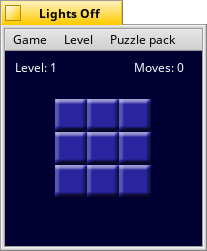
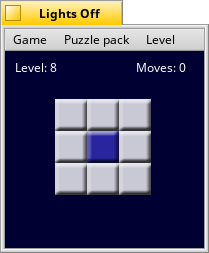
Save the dimensions and level of most recent random game
Also,
* increase the maximum dimensions to 8x8.
* increase the maximum levels of random games.
* update existing PNG files and add new ones.

Fixes #36
Fixes #39

diff --git a/src/GridView.cpp b/src/GridView.cpp
@@ -29,10 +29,20 @@ PuzzlePackSet gPuzzles;
 
 static const float gridMargin = 50;
 static const int8 minDimension = 3;
-static const int8 maxDimension = 6;
+static const int8 maxDimension = 8;
 static const int8 defaultDimension = 5;
 static const int8 maxNumButtons = maxDimension * maxDimension;
-static const int8 maxLevels[maxDimension - minDimension + 1] = { 4, 7, 5, 16 };
+
+/*
+ * Maximum levels (number of moves required) for dimensions 3x3 through 8x8
+ *
+ * Note: although the nullity of 3x3 and 6x6 through 8x8 dimensions is 0, which
+ * means the maximum level is n^2 where n = 3, 6, 7, or 8, I set them to 1 less
+ * because otherwise, the solutions would be simply pressing all buttons. --Owen
+ */
+static const int8 maxLevels[] = { 8, 7, 15, 35, 48, 63 };
+
+static int8 lastLevels[maxDimension - minDimension + 1];
 
 static void
 SuccessAlert()
@@ -59,10 +69,6 @@ GridView::GridView()
 	entry.SetTo("altwin.wav");
 	entry.GetRef(&ref);
 	fNoWinSound = new BFileGameSound(&ref,false);
-	
-	StartupPreferences();
-	fGrid = new Grid(fDimension);
-	srandom(system_time());
 
 	SetViewColor(0,0,50);
 	
@@ -109,6 +115,10 @@ GridView::GridView()
 	fLevelMenu = new BMenu("Level");
 	fLevelMenu->SetRadioMode(true);
 	bar->AddItem(fLevelMenu);
+
+	StartupPreferences();
+	fGrid = new Grid(fDimension);
+	srandom(system_time());
 
 	fButtons = new TwoStateDrawButton*[maxNumButtons];
 
@@ -249,8 +259,7 @@ void GridView::MessageReceived(BMessage *msg)
 			int8 dimension;
 			if (msg->FindInt8("dimension", &dimension) != B_OK) {
 				int8 index = fRandomMenu->FindMarkedIndex();
-				dimension = index == -1 ? defaultDimension
-					: minDimension + index;
+				dimension = index < 0 ? defaultDimension : minDimension + index;
 			}
 			UpdateDimension(dimension);
 			SetRandom(dimension);
@@ -296,8 +305,6 @@ void GridView::RandomMenu()
 		msg->AddInt8("dimension", dimension);
 		fRandomMenu->AddItem(new BMenuItem(label, msg));
 	}
-
-	fRandomMenu->ItemAt(fDimension - minDimension)->SetMarked(true);
 }
 
 void GridView::FlipButton(int8 offset)
@@ -334,7 +341,7 @@ void GridView::SetRandom(int8 dimension)
 
 	fLevelMenu->SetTargetForItems(this);
 	fPackMenu->ItemAt(0)->SetMarked(true);
-	SetLevel(2);
+	SetLevel(lastLevels[dimension - minDimension]);
 }
 
 void GridView::UpdateDimension(int8 dimension)
@@ -426,8 +433,10 @@ void GridView::SetLevel(int8 level)
 
 	if (fPuzzle)
 		fGrid->SetGridValues(fPuzzle->ValueAt(level));
-	else
+	else {
+		lastLevels[fDimension - minDimension] = level;
 		fGrid->Random(level + 1);
+	}
 
 	UpdateButtons();
 
@@ -494,6 +503,9 @@ void GridView::HandleFinish()
 void GridView::StartupPreferences()
 {
 	if (LoadPreferences(PREFERENCES_PATH) == B_OK) {
+		for (int8 index = 0; index <= maxDimension - minDimension; index++)
+			lastLevels[index] = preferences.GetInt8("levels", index, index + 1);
+
 		for(int8 index = 0; index < gPuzzles.CountPacks(); index++) {
 			PuzzlePack* pack = gPuzzles.PackAt(index);
 			pack->SetHighest(preferences.GetInt8(pack->Name(), 0));
@@ -507,15 +519,25 @@ void GridView::StartupPreferences()
 
 				if (strcmp(lastpack.String(), pack->Name()) == 0) {
 					fPuzzle = pack;
+					fDimension = defaultDimension;
 					break;
 				}
 			}
 
-		fDimension = preferences.GetInt8("dimension", defaultDimension);
+		int8 dimension = preferences.GetInt8("dimension", defaultDimension);
+		fRandomMenu->ItemAt(dimension - minDimension)->SetMarked(true);
+
+		if (fPuzzle == NULL)
+			fDimension = dimension;
+
 		fUseSound = preferences.GetBool("usesound", true);
 	} else {
+		for (int8 index = 0; index <= maxDimension - minDimension; index++)
+			lastLevels[index] = index + 1;
+
 		fPuzzle = gPuzzles.PackAt(0);
 		fDimension = defaultDimension;
+		fRandomMenu->ItemAt(defaultDimension - minDimension)->SetMarked(true);
 		fUseSound = true;
 	}
 
@@ -530,6 +552,9 @@ void GridView::ShutdownPreferences()
 {
 	preferences.MakeEmpty();
 	
+	for (int8 index = 0; index <= maxDimension - minDimension; index++)
+		preferences.AddInt8("levels", lastLevels[index]);
+
 	// Save the progress in each of the puzzle packs
 	for (int8 i = 0; i < gPuzzles.CountPacks(); i++) {
 		PuzzlePack *pack = (PuzzlePack*)gPuzzles.PackAt(i);
@@ -540,10 +565,12 @@ void GridView::ShutdownPreferences()
 		}
 	}
 
+	int8 index = fRandomMenu->FindMarkedIndex();
+	preferences.AddInt8("dimension",
+		index < 0 ? defaultDimension : minDimension + index);
+
 	if (fPuzzle)
 		preferences.AddString("lastpack", fPuzzle->Name());
-	else
-		preferences.AddInt8("dimension", fDimension);
 
 	preferences.AddBool("usesound",fUseSound);
 	SavePreferences(PREFERENCES_PATH);

diff --git a/src/Grid.cpp b/src/Grid.cpp
@@ -28,6 +28,44 @@ void Grid::Random(int8 minMoves)
 	for (int8 index = 0; index < numButtons; index++)
 		fData[index] = fGrid[index] = 0;
 
+	/*
+	 * Some of the eigenvectors
+	 *
+	 * An eigenvector is a puzzle whose solution is simply pressing all lit
+	 * buttons in the puzzle. --Owen
+	 */
+#if 0
+	// 3x3.png
+	if (fDimension == 3 && minMoves == 8) {
+		for (int8 index = 0; index < numButtons; index++)
+			fData[index] = fGrid[index] = 1;
+		fData[4] = 0;
+		return;
+	}
+
+	// 6x6.png
+	if (fDimension == 6 && minMoves == 6) {
+		fData[0] = fData[7] = fData[14] = fData[21] = fData[28] = fData[35] = 1;
+		return;
+	}
+
+	// 7x7.png
+	if (fDimension == 7 && minMoves == 16) {
+		fData[3] = fData[9] = fData[11] = fData[15] = fData[17] = fData[19]
+			= fData[21] = fData[23] = fData[25] = fData[27] = fData[29]
+			= fData[31] = fData[33] = fData[37] = fData[39] = fData[45] = 1;
+		return;
+	}
+
+	// 8x8.png
+	if (fDimension == 8 && minMoves == 14) {
+		fData[6] = fData[13] = fData[15] = fData[20] = fData[22] = fData[27]
+			= fData[29] = fData[34] = fData[36] = fData[41] = fData[43]
+			= fData[48] = fData[50] = fData[57] = 1;
+		return;
+	}
+#endif
+
 	if (minMoves > numButtons)
 		minMoves = numButtons;
 

diff --git a/src/AboutWindow.cpp b/src/AboutWindow.cpp
@@ -96,4 +96,16 @@ void AboutView::Draw(BRect update)
 	DrawBitmap(fLogo, BPoint(0,0));
 	SetHighColor(224,224,224);
 	DrawString(version,versionpos);
+
+	const float x = fLogo->Bounds().right;
+	const char* str = "Owen Pan";
+	BPoint point(x - StringWidth(str) - 38, 180);
+	DrawString(str, point);
+
+	font_height h;
+	be_plain_font->GetHeight(&h);
+	str = "2018";
+	point.x = x - StringWidth(str) - 51;
+	point.y += h.ascent + h.descent + h.leading;
+	DrawString(str, point);
 }
